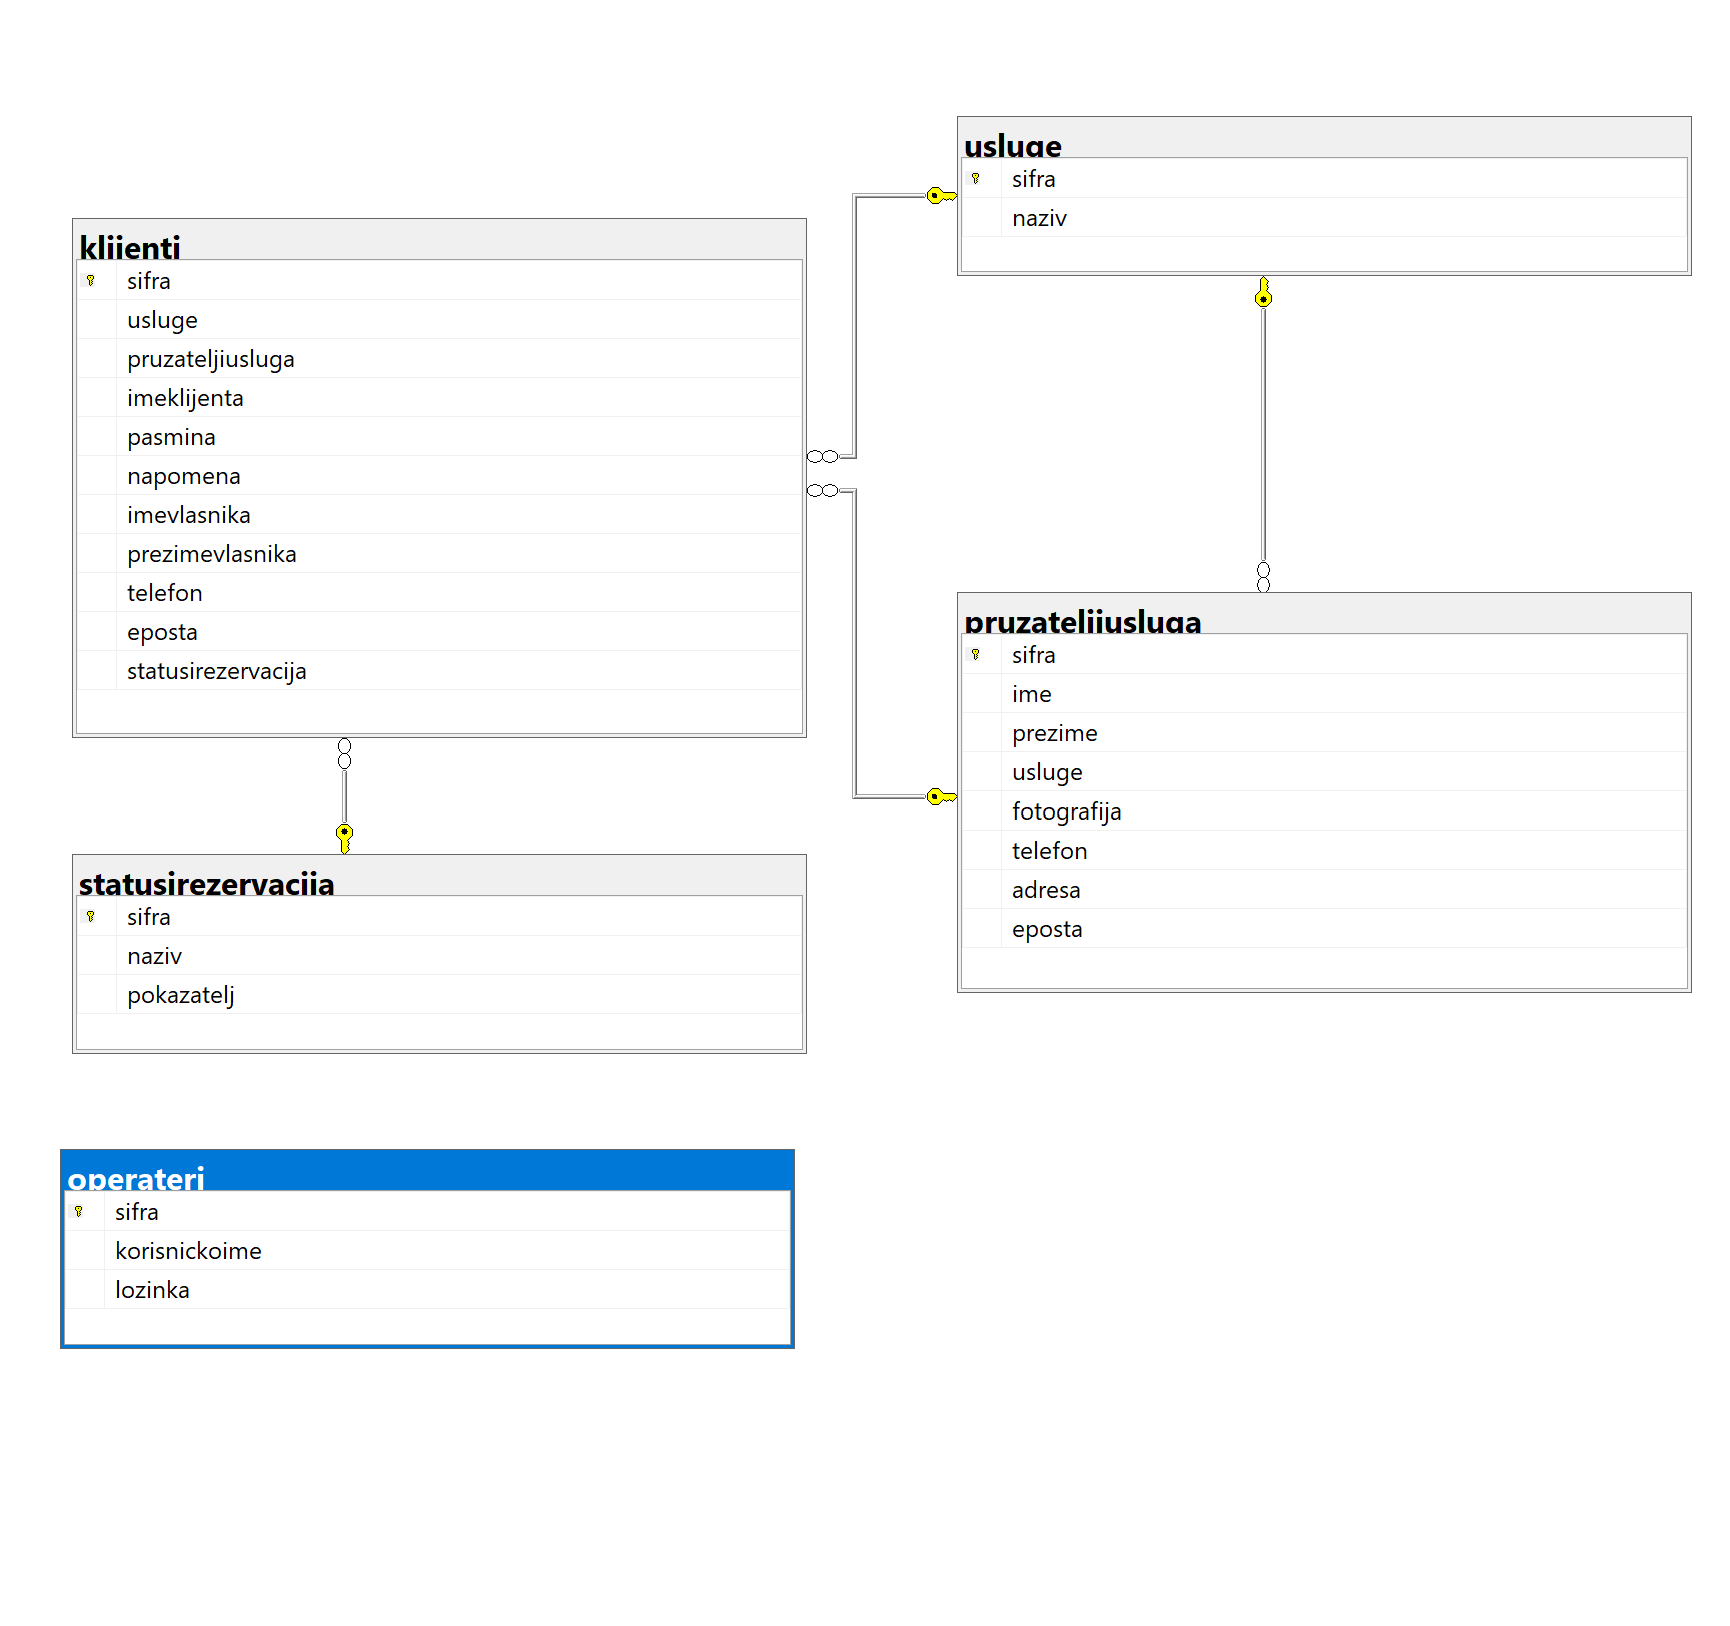
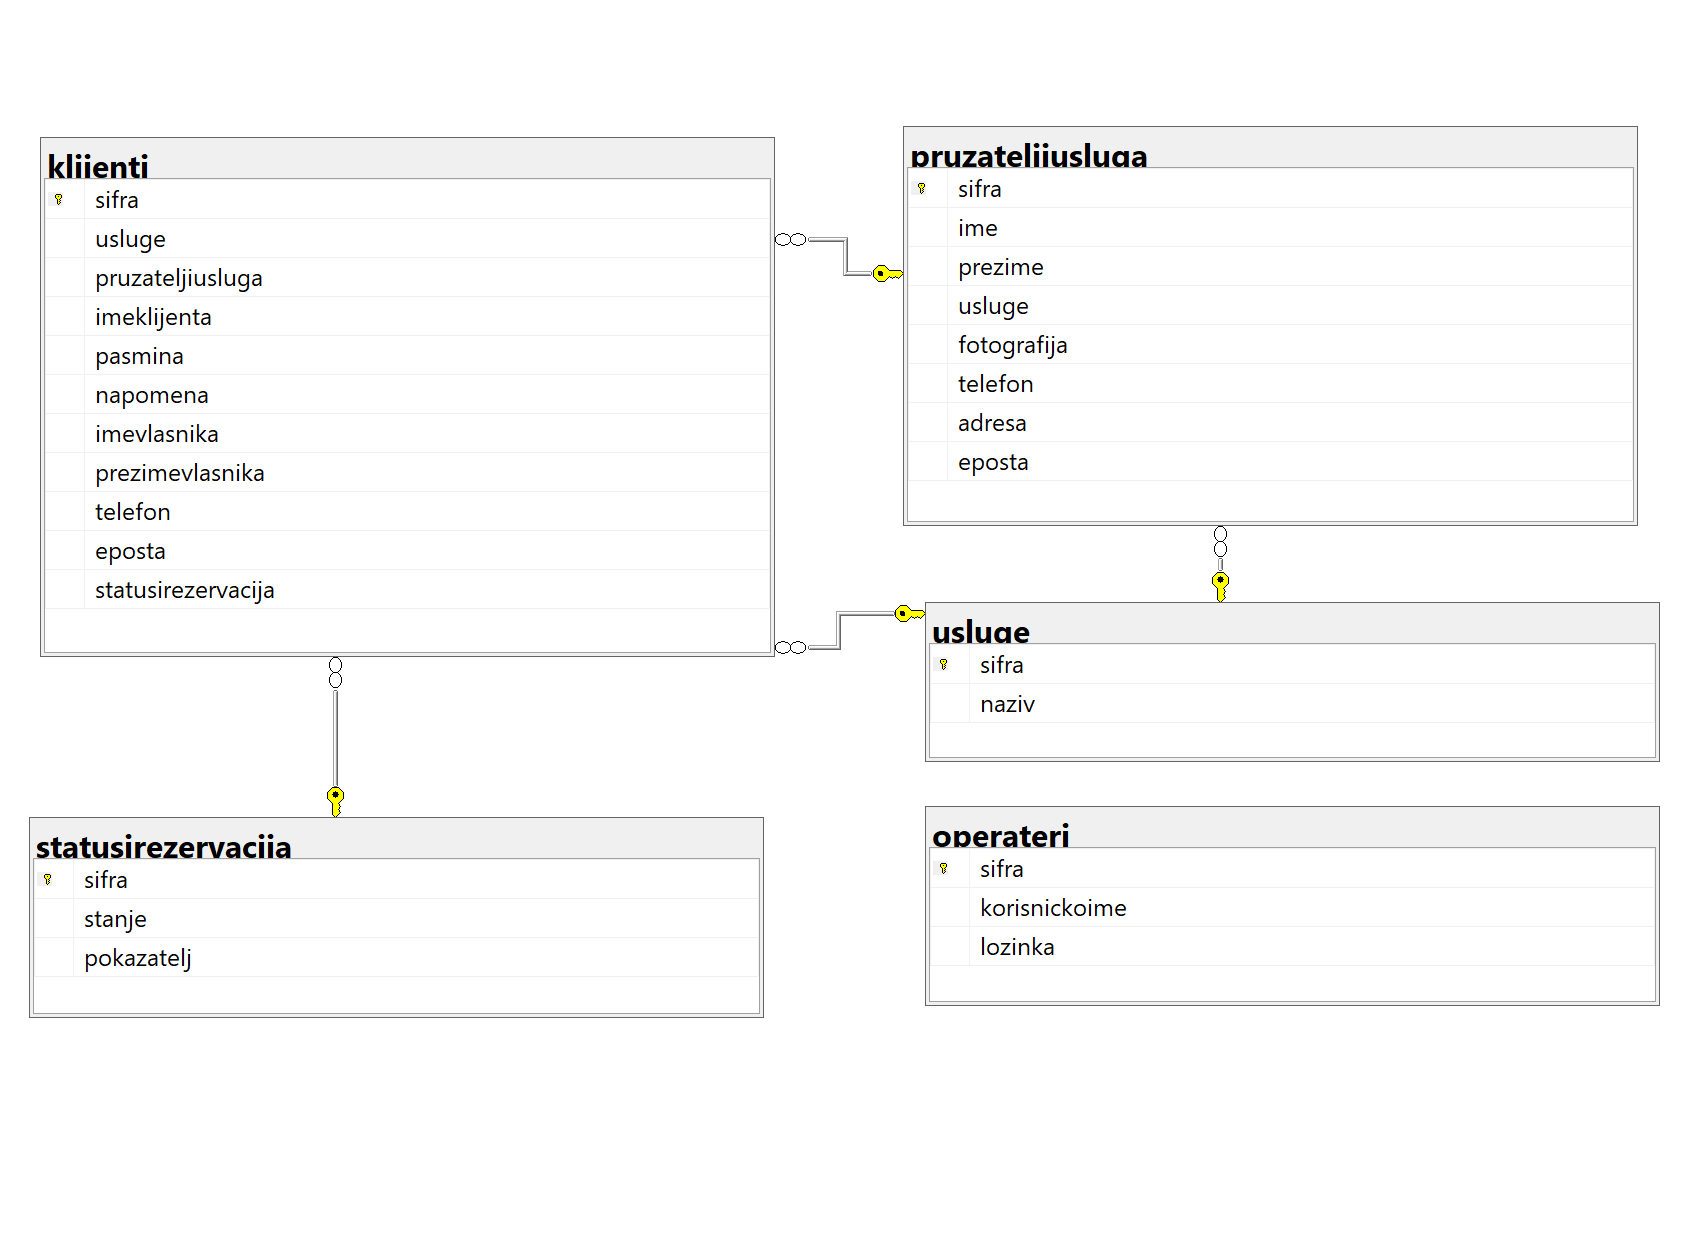
Error 503

diff --git a/Frontend/src/pages/statusirezervacija/StatusiRezervacija.jsx b/Frontend/src/pages/statusirezervacija/StatusiRezervacija.jsx
@@ -2,40 +2,43 @@ import { useEffect, useState } from "react";
 import { Container, Table } from "react-bootstrap";
 import StatusRezervacijeService from "../../services/StatusRezervacijeService";
 
+export default function StatusiRezervacija() {
+    const [statusiRezervacija, setStatusiRezervacije] = useState([]);
 
-export default function StatusiRezervacija (){
-    const [statusiRezervacija,setStatusiRezervacije] = useState();
-
-    async function dohvatiStatuseRezervacija(){
-        await StatusRezervacijeService.getStatusiRezervacija()
-        .then((res)=>{
+    async function dohvatiStatuseRezervacija() {
+        try {
+            const res = await StatusRezervacijeService.getStatusiRezervacija();
             setStatusiRezervacije(res.data);
-        })
-        .catch((e)=>{
-            alert(e);
-        });
+        } catch (error) {
+            alert(error);
+        }
     }
 
-    useEffect(()=>{
+    useEffect(() => {
         dohvatiStatuseRezervacija();
-    },[]);
-   
-    
-    return (
+    }, []);
 
+    function pokazateljTitle(statusrezervacije) {
+        if (statusrezervacije.pokazatelj == null) return 'Zahtjev na čekanju';
+        if (statusrezervacije.pokazatelj) return 'Zahtjev obrađen';
+        return 'Zahtjev u obradi';
+    }
+
+    return (
         <Container>
             <Table striped bordered hover responsive>
                 <thead>
-                    <tr> 
-                        <th>Naziv</th>
+                    <tr>
+                        <th>Stanje</th>
                         <th>Pokazatelj</th>
-                     </tr>
+                        <th>Akcija</th>
+                    </tr>
                 </thead>
                 <tbody>
-                    {statusiRezervacija && statusiRezervacija.map((statusrezervacije,index)=>(
+                    {statusiRezervacija && statusiRezervacija.map((statusrezervacije, index) => (
                         <tr key={index}>
-                            <td>{statusrezervacije.naziv}</td>
-                            <td>{statusrezervacije.pokazatelj}</td>
+                            <td>{statusrezervacije.stanje}</td>
+                            <td>{pokazateljTitle(statusrezervacije)}</td>
                             <td>Akcija</td>
                         </tr>
                     ))}

diff --git a/Frontend/src/App.jsx b/Frontend/src/App.jsx
@@ -4,6 +4,8 @@ import { RoutesNames } from "./constants"
 import NavBar from "./components/NavBar"
 import StatusiRezervacija from "./pages/statusirezervacija/StatusiRezervacija"
 
+import './App.css';
+
 function App () {
   return (
     <>

diff --git a/Frontend/src/App.css b/Frontend/src/App.css
@@ -1,0 +1,6 @@
+.desno {
+    text-align: right;
+}
+.sredina{
+    text-align: center;
+}

diff --git a/UslugeZaKucneLjubimce/Controllers/StatusRezervacijeController.cs b/UslugeZaKucneLjubimce/Controllers/StatusRezervacijeController.cs
@@ -68,7 +68,7 @@ namespace UslugeZaKucneLjubimce.Controllers
         /// </summary>
         /// <remarks>
         ///     POST api/v1/StatusRezervacije
-        ///     {naziv: "Primjer naziva"}
+        ///     {stanje: "Primjer stanja"}
         /// </remarks>
         /// <param name="status rezervacije">Status rezervacije za unijeti u JSON formatu</param>
         /// <response code="201">Kreirano</response>
@@ -105,20 +105,21 @@ namespace UslugeZaKucneLjubimce.Controllers
         ///
         /// {
         ///  "sifra": 0,
-        ///  "naziv": "Novi naziv",
+        ///  "stanje": "true",
         ///  "pokazatelj": "crvena",
         /// }
         ///
         /// </remarks>
         /// <param name="sifra">Šifra statusa rezervacije koji se mijenja</param>  
-        /// <param name="smjer">Status rezervacije za unijeti u JSON formatu</param>  
+        /// <param name="stanje">Status rezervacije za unijeti u JSON formatu</param> 
+        /// <param name="pokazatelj">Boja rezervacije za unijeti u JSON formatu</param>  
         /// <returns>Svi poslani podaci od statusa rezervacije koji su spremljeni u bazi</returns>
         /// <response code="200">Sve je u redu</response>
         /// <response code="204">Nema u bazi statusa rezervacije kojeg želimo promijeniti</response>
         /// <response code="415">Nismo poslali JSON</response> 
         /// <response code="503">Baza nedostupna</response> 
 
-        
+
         [HttpPut]
         [Route("{sifra:int}")]
         public IActionResult Put(int sifra, StatusRezervacije statusRezervacije)
@@ -143,7 +144,7 @@ namespace UslugeZaKucneLjubimce.Controllers
 
                 // inače ovo rade mapperi
                 // za sada ručno
-                statusRezervacijeIzBaze.Naziv = statusRezervacije.Naziv;
+                statusRezervacijeIzBaze.Stanje = statusRezervacije.Stanje;
                 statusRezervacijeIzBaze.Pokazatelj= statusRezervacije.Pokazatelj;
     
  
@@ -187,14 +188,14 @@ namespace UslugeZaKucneLjubimce.Controllers
 
             try
             {
-                var smjerIzbaze = _context.StatusiRezervacija.Find(sifra);
+                var statusRezervacijeIzbaze = _context.StatusiRezervacija.Find(sifra);
 
-                if (smjerIzbaze == null)
+                if (statusRezervacijeIzbaze == null)
                 {
                     return StatusCode(StatusCodes.Status204NoContent, sifra);
                 }
 
-                _context.StatusiRezervacija.Remove(smjerIzbaze);
+                _context.StatusiRezervacija.Remove(statusRezervacijeIzbaze);
                 _context.SaveChanges();
 
                 return new JsonResult("{\"poruka\": \"Obrisano\"}"); // ovo nije baš najbolja praksa ali da znake kako i to može

diff --git a/UslugeZaKucneLjubimce/Models/StatusRezervacije.cs b/UslugeZaKucneLjubimce/Models/StatusRezervacije.cs
@@ -5,18 +5,20 @@ namespace UslugeZaKucneLjubimce.Models
     /// <summary>
     /// Ovo mi je POCO koji je mapiran na bazu
     /// </summary>
-    public class StatusRezervacije:Entitet
+    public class StatusRezervacije : Entitet
     {
         /// <summary>
-        /// Naziv u bazi
+        /// Stanje u bazi
         /// </summary>
-        [Required(ErrorMessage ="Unesite naziv usluge")]
-        public string? Naziv { get; set; }
+        [Required(ErrorMessage = "Unesite stanje obrade u bazi")]
+        public bool? Stanje { get; set; }
+
         /// <summary>
         /// Potrebno je unijeti boju pomoću stringa
         /// </summary>
         [Required(ErrorMessage = "Pokazatelj statusa obavezna")]
-       
+
         public string Pokazatelj { get; set; }
+
     }
 }
